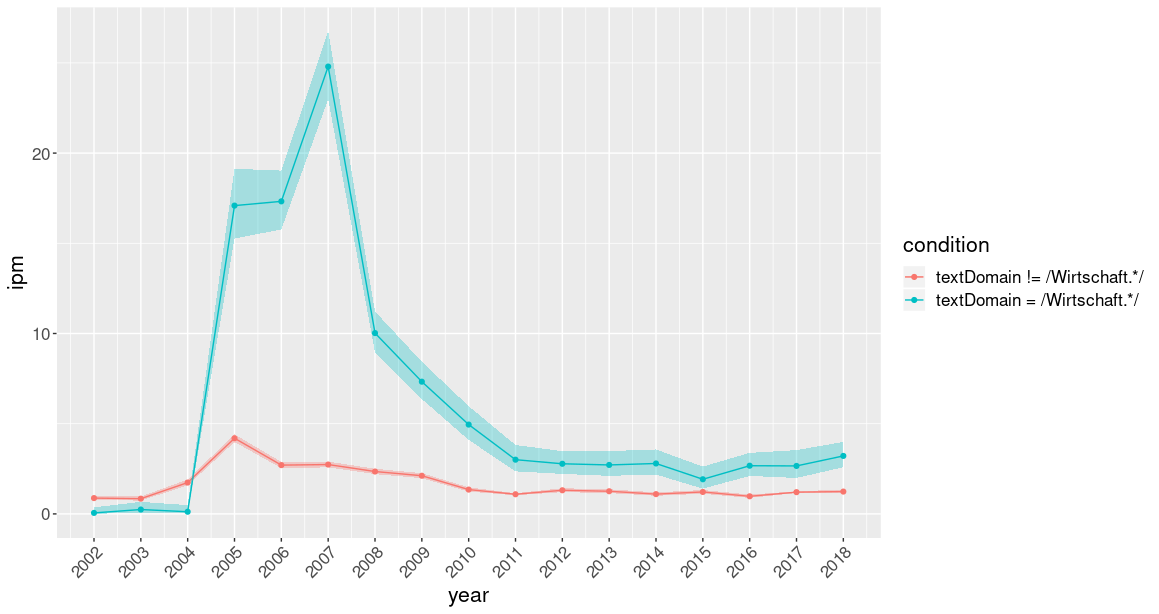
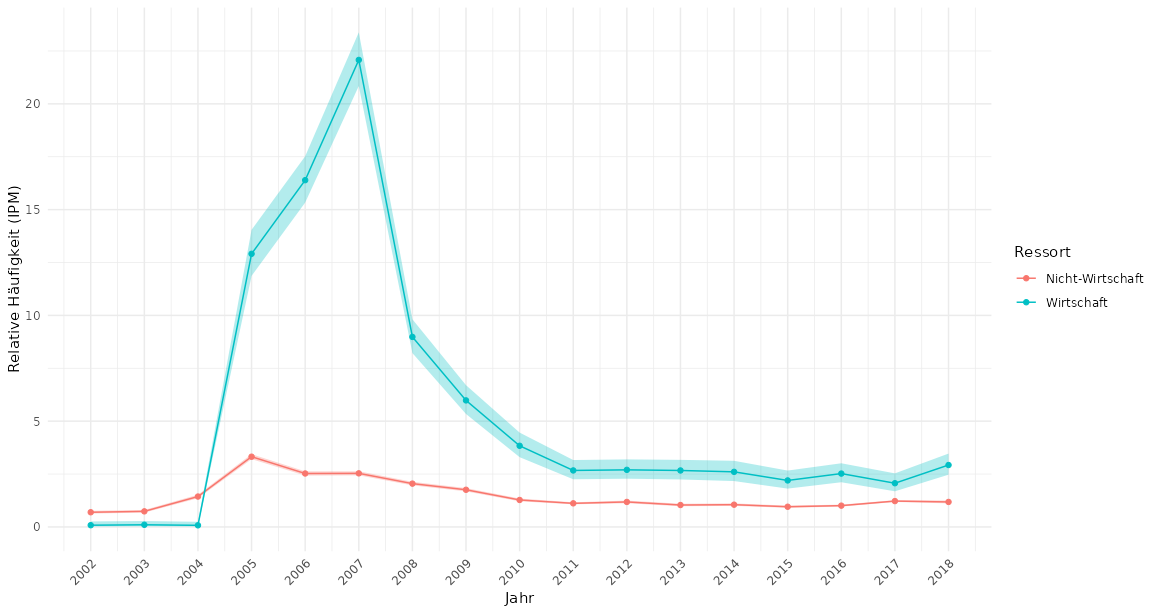
Fix README queries after metadata field rename
Use idsColumn instead of textDomain in the newspaper-section example.
The current DeReKo index uses the renamed field, so the old filter selects
an empty corpus and produces misleading zero results.

Refresh the figure from the corrected queries, use theme_minimal and the
native pipe, and show readable German section and axis labels. Keep the
example compatible with existing APIs so this fix can land independently
of the pending features.

diff --git a/Readme.md b/Readme.md
@@ -64,18 +64,31 @@ Check the corpus documentation for the intended meaning, missing values and date
 
 The following time-series examples use `creationDate`; their year axis therefore follows that field, not necessarily publication year.
 
-### Frequencies over time and domains using ggplot2
+### Frequencies over time and newspaper sections using ggplot2
 
 ```r
 library(RKorAPClient)
 library(ggplot2)
-kco <- KorAPConnection(verbose=TRUE)
-expand_grid(condition = c("textDomain = /Wirtschaft.*/", "textDomain != /Wirtschaft.*/"), 
-            year = (2002:2018)) %>%
-    cbind(frequencyQuery(kco, "[tt/l=Heuschrecke]", paste0(.$condition," & creationDate in ", .$year)))  %>%
-    ipm() %>%
-    ggplot(aes(x = year, y = ipm, fill = condition, colour = condition)) +
-    geom_freq_by_year_ci()
+kco <- KorAPConnection(verbose = TRUE)
+
+expand_grid(
+  ressort = c(
+    Wirtschaft = "idsColumn = /Wirtschaft.*/",
+    `Nicht-Wirtschaft` = "idsColumn != /Wirtschaft.*/"
+  ),
+  year = 2002:2018
+) |>
+  mutate(
+    frequencyQuery(kco, "[tt/l=Heuschrecke]",
+      paste(ressort, "& creationDate in", year)),
+    ressort = names(ressort)
+  ) |>
+  ipm() |>
+  ggplot(aes(year, ipm, fill = ressort, colour = ressort)) +
+  theme_minimal() +
+  geom_freq_by_year_ci() +
+  labs(x = "Jahr", y = "Relative Häufigkeit (IPM)",
+       fill = "Ressort", colour = "Ressort")
 ```
 ![](man/figures/Readme-Example-1.png)<!-- -->
 
